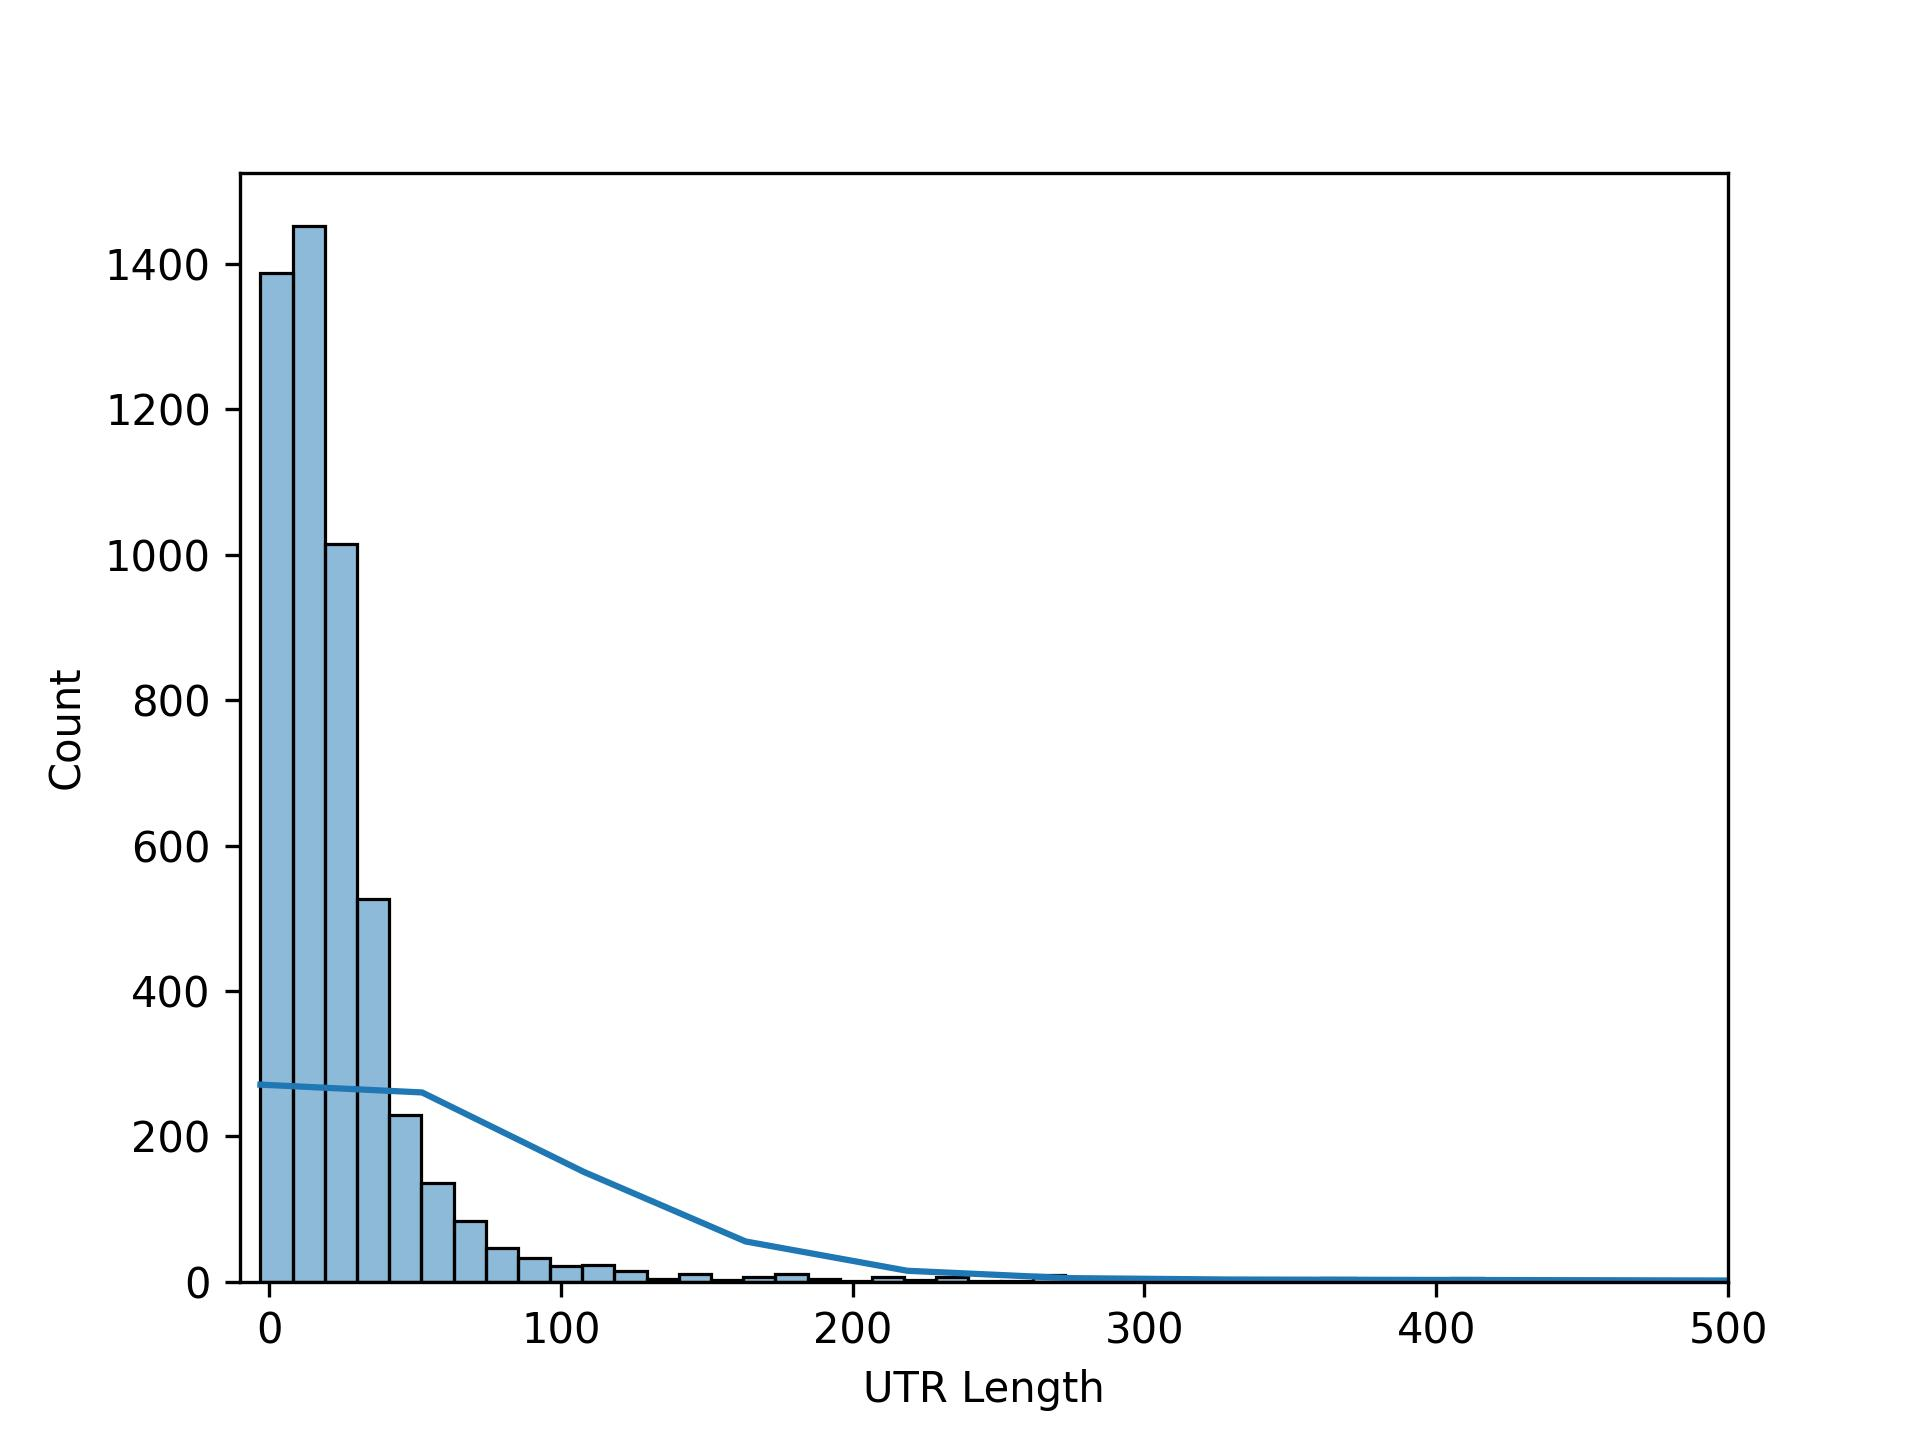
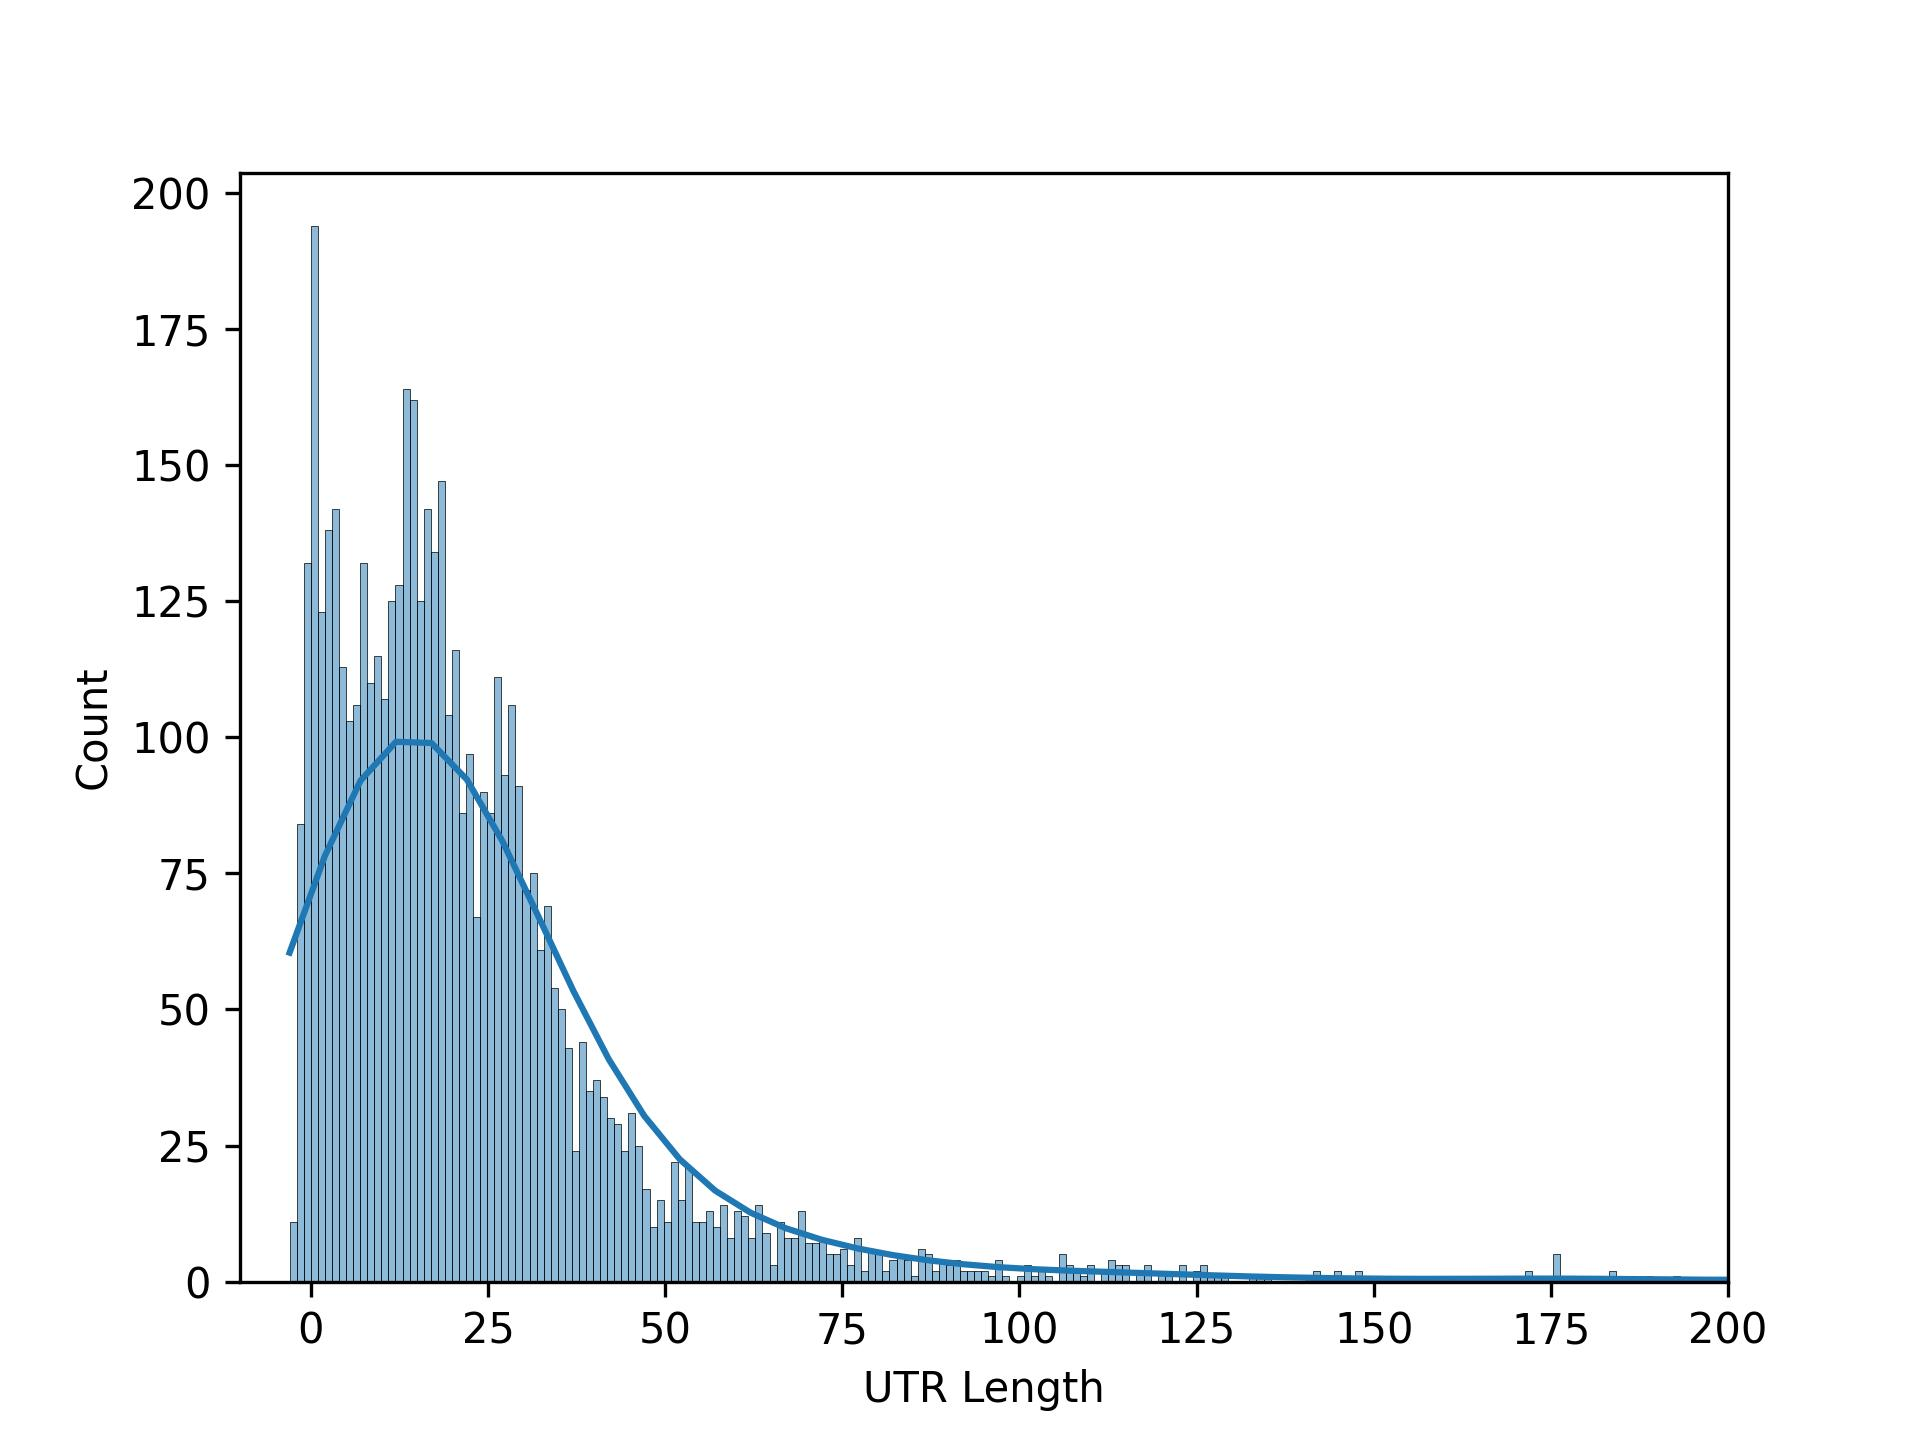
error messages adjusted

Changed region(s): [[0.0312, 0.125, 0.8438, 0.9375], [0.875, 0.9062, 0.9062, 0.9375]]

diff --git a/UTR_length_finder.py b/UTR_length_finder.py
@@ -54,7 +54,7 @@ def main() -> None:
     UTR_lengths_list = find_UTR_lengths(gene_intervals, db_polyA, sequences)
 
     df = pd.DataFrame(UTR_lengths_list, columns=["UTR Length"])
-    plt.xlim(-10, 500)  # Set max x-axis to 1000
+    plt.xlim(-10, 200)  # Set max x-axis to 1000
     sns.histplot(df, x="UTR Length", bins=1000, kde=True).get_figure().savefig("UTR_length_distribution.jpg", dpi=300)
       
 
@@ -128,12 +128,17 @@ def find_UTR_lengths(
                 if polyA.strand == "-" and interval.strand_right == "-":
                     current_gene = interval.gene_right.id
                     current_UTR_length = interval.end - polyA.start
-                    UTR_lengths.append(current_UTR_length)
+
 
                 elif polyA.strand == "+" and interval.strand_left == "+":
                     current_gene = interval.gene_left.id
                     current_UTR_length =polyA.start - interval.start
+
+
+                if current_UTR_length < 1000:
                     UTR_lengths.append(current_UTR_length)
+                else:
+                    print(f"WARNING: UTR ({current_UTR_length} bp) for gene {current_gene} is unusually long; a missing gene may be possible.")
 
                 print(current_gene, polyA.id, current_UTR_length)
 
@@ -141,7 +146,7 @@ def find_UTR_lengths(
                 if geneIdToCheck is not None and UTRlengthToCheck is not None:
                 # Check if we have the same gene, and if the difference is bigger than 50
                     if geneIdToCheck == current_gene and abs(UTRlengthToCheck - current_UTR_length) > 50:
-                        print("there must be a gene missing between", polyAtoCheck, "and", polyA.id)
+                        print(f"WARNING: there might be a gene missing between {polyAtoCheck} and {polyA.id}")
 
                 # Update these variables for the next comparison
                 geneIdToCheck = current_gene
